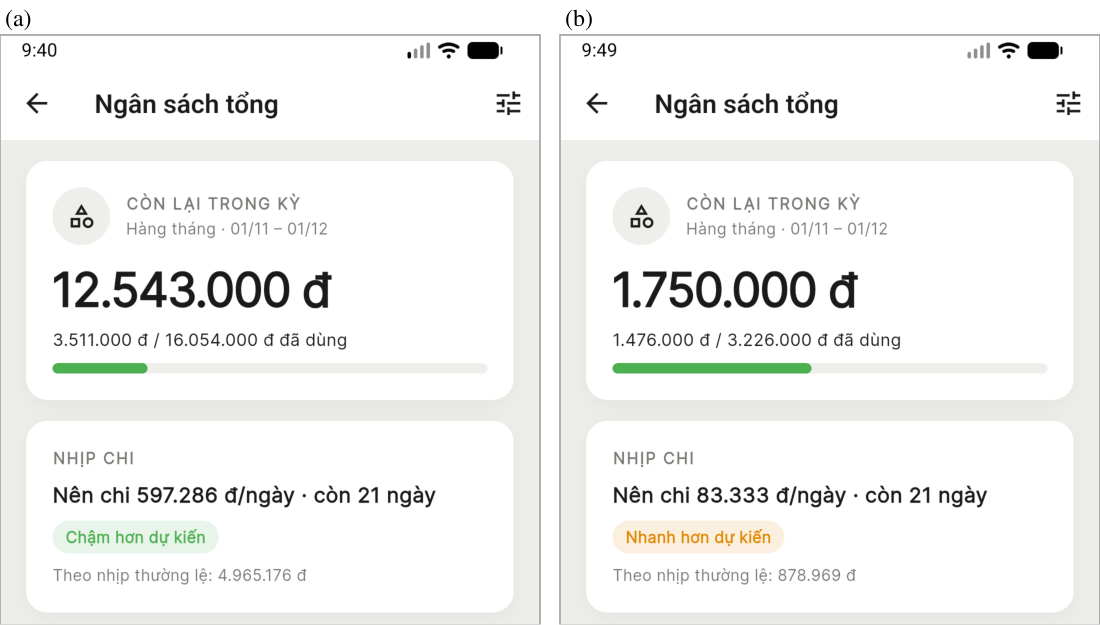
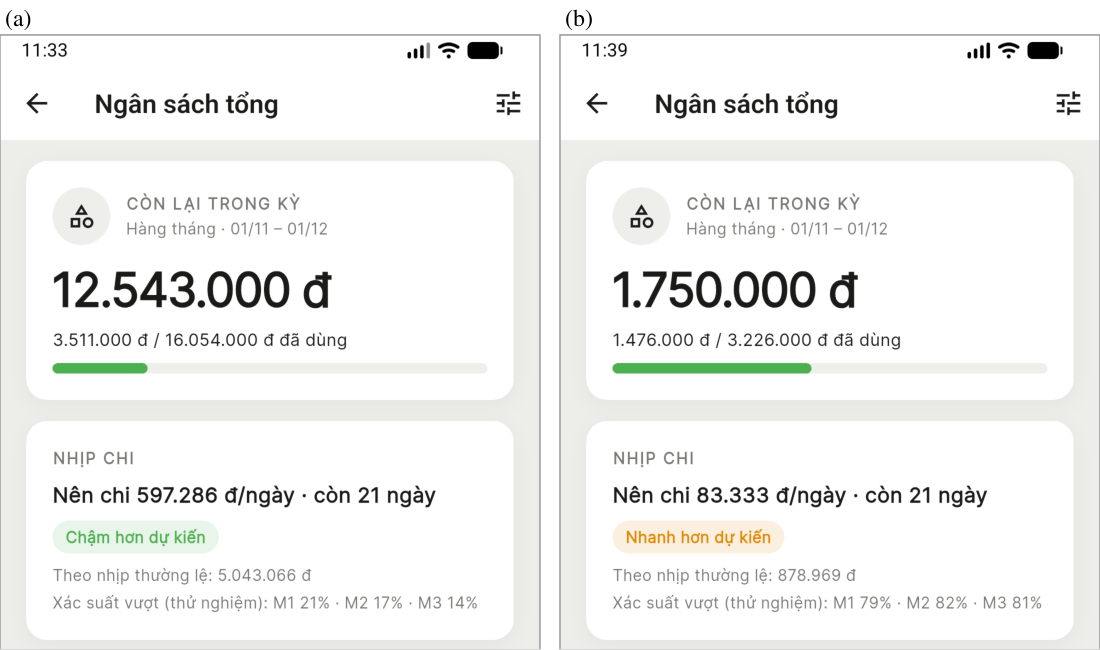
research: bài EN — thêm bản thử M2/M3 trong app (nháp, chưa dựng docx, chưa sửa VI)

diff --git a/research/du-bao-vuot-ngan-sach/paper/content_en.js b/research/du-bao-vuot-ngan-sach/paper/content_en.js
@@ -2,7 +2,8 @@
 // Rewritten 2026-11-10 after the supervisor's review: one data set (IBM TabFormer converted to a Vietnamese setting),
 // a test on the real FlowMoney app, a 5-point Likert check by two raters, fewer formulas.
 // Numbers come from ../experiment/results/{tabformer_vn,tabformer_vn_profile,bootstrap_vn,m1_compare_tabformer_vn}.json
-// and ../app_test/README.md. Likert results are pending (marked [pending]).
+// and ../app_test/README.md; trial build with M2/M3 in the app: results/{app_m23,app_bulk,app_drift}.json.
+// Likert results are pending (marked [pending]).
 'use strict';
 
 exports.title = 'Median, Exponential Smoothing, and Quantile Regression Forecasts for Early Warning of Budget Overruns';
@@ -12,14 +13,14 @@ exports.emails = '[e-mail addresses to be added]';
 exports.header = 'STUDENT SCIENTIFIC RESEARCH COMMUNICATION, VOLUME II, 2026';
 
 exports.build = ({ add, body, H1, H2, EQ, bullet, FIG, TABLE, LABELED, REFLIST, r }) => {
-  add(LABELED('Abstract', r`A budget warning in a personal finance app helps only if it comes early and is rarely wrong. FlowMoney, the offline-first app built in our graduation project, already projects end-of-month spending with a median of the user's past months. We ask whether a probability of overrunning the budget gives better warnings, and we compare three forecasters: the app's median rule, an exponentially weighted moving average (EWMA) of daily spending, and a quantile regression trained on all users. The data are IBM's synthetic card transactions, converted to a Vietnamese setting: 109 merchant codes were mapped to FlowMoney's eight spending categories and amounts were scaled to four income tiers, with the conversion tables proposed by Claude and checked by the authors on a 5-point Likert form. Because every budget is set from the user's own past spending, the conversion leaves every forecast unchanged (largest difference 0.001). On 310,978 forecasts from 1,513 users, quantile regression and EWMA beat the median rule (Brier score 0.148 and 0.149 against 0.166). Allowing one false alarm in ten months, quantile regression catches 77% of overruns a median of 12 days ahead, against 68% and 9 days for the median rule. We then loaded five converted users into the real app through its own sync API; for all five, the pace figure on the Budget page matched our offline run of the app's code to the last dong.`));
+  add(LABELED('Abstract', r`A budget warning in a personal finance app helps only if it comes early and is rarely wrong. FlowMoney, the offline-first app built in our graduation project, already projects end-of-month spending with a median of the user's past months. We ask whether a probability of overrunning the budget gives better warnings, and we compare three forecasters: the app's median rule, an exponentially weighted moving average (EWMA) of daily spending, and a quantile regression trained on all users. The data are IBM's synthetic card transactions, converted to a Vietnamese setting: 109 merchant codes were mapped to FlowMoney's eight spending categories and amounts were scaled to four income tiers, with the conversion tables proposed by Claude and checked by the authors on a 5-point Likert form. Because every budget is set from the user's own past spending, the conversion leaves every forecast unchanged (largest difference 0.001). On 310,978 forecasts from 1,513 users, quantile regression and EWMA beat the median rule (Brier score 0.148 and 0.149 against 0.166). Allowing one false alarm in ten months, quantile regression catches 77% of overruns a median of 12 days ahead, against 68% and 9 days for the median rule. We then loaded five converted users into the real app through its own sync API, and the app's pace figure matched our offline run of its code to the last dong. A trial build that adds M2 and M3 to the app reproduced all 328,670 test forecasts to within $10^{-6}$.`));
   add(LABELED('Index Terms', 'Budget overrun, early warning, exponential smoothing, personal finance application, quantile regression, synthetic data.', 160));
 
   // I
   add(H1('Introduction'));
   add(body(r`Many people manage money in monthly mental accounts, such as the amount set aside for food this month [@thaler], and the budget screen of a personal finance app follows the same idea. A reminder sent at the right time can change financial behaviour [@karlan], so when a budget warning appears matters as much as whether it appears.`, { dropCap: true }));
   add(body(r`FlowMoney is the personal finance app our team builds as its graduation project (KLTN). It is offline-first: transactions are written to SQLite on the phone and synced with a Node.js server in the background. On the Budget page the app compares spending so far with a *spending rhythm* learned from the three to six most recent closed months: for the share of the month that has passed, it takes the median share of the budget that was usually spent by then and labels the current pace slow, on track, or fast. It also projects end-of-month spending as the amount spent so far plus the median amount usually spent in the rest of the month. The rule is cheap and one unusual month barely moves it, but it gives no probability, so the app cannot say how likely an overrun is or choose how early to warn.`));
-  add(body(r`This paper turns the question "will this month go over budget?" into a probability and compares three ways to estimate it on data that can be loaded into the app. The contributions are: (i) an evaluation of the app's median rule against an EWMA and a quantile regression on 1,513 synthetic users, for both probability quality and early warning; (ii) an explicit data design that converts IBM's synthetic card transactions to FlowMoney's categories and Vietnamese spending levels, declares the origin of every data element, and has the AI-proposed parts checked by the authors on a Likert scale; and (iii) a test on the real system, in which converted users are loaded into FlowMoney through its own sync API and the figures on the Budget page are checked against an offline run of the app's code. Section II reviews related work, Section III describes the method and data, Section IV reports the results, Section V discusses them, and Section VI concludes.`));
+  add(body(r`This paper turns the question "will this month go over budget?" into a probability and compares three ways to estimate it on data that can be loaded into the app. The contributions are: (i) an evaluation of the app's median rule against an EWMA and a quantile regression on 1,513 synthetic users, for both probability quality and early warning; (ii) an explicit data design that converts IBM's synthetic card transactions to FlowMoney's categories and Vietnamese spending levels, declares the origin of every data element, and has the AI-proposed parts checked by the authors on a Likert scale; and (iii) a test on the real system, in which converted users are loaded into FlowMoney through its own sync API and the figures on the Budget page are checked against an offline run of the app's code, together with a trial build of the app that computes all three probabilities on the phone. Section II reviews related work, Section III describes the method and data, Section IV reports the results, Section V discusses them, and Section VI concludes.`));
 
   // II
   add(H1('Related Work'));
@@ -64,7 +65,7 @@ exports.build = ({ add, body, H1, H2, EQ, bullet, FIG, TABLE, LABELED, REFLIST, 
     [
       ['Probability quality (RQ1)', '310,978 forecasts, 1,513 users', 'Brier score (3), expected calibration error (ECE), area under the ROC curve'],
       ['Early warning (RQ2)', 'Same', 'Recall at a false-alarm rate of at most 10%; median days of warning before the overrun'],
-      ['Real system (RQ3)', '5 users in the app; 20,000 sampled cases', 'Exact match of the app’s figures with the offline run of its code'],
+      ['Real system (RQ3)', '5 users in the app; 20,000 sampled cases; trial build: 328,670 forecasts and 300 users read through the app database', 'Exact match of the app’s figures with the offline run of its code; largest difference for M1 to M3 in the trial build'],
       ['Human check (RQ4)', '80 mapping items, 4 tiers, 20 user-months, 30 warnings', 'Mean 5-point Likert score [@likert]; agreement of the two raters [@cohen]'],
     ], null, 'LLL'));
   add(body(r`The Brier score is the mean squared gap between the forecast probability $p_{i}$ and the outcome $o_{i}$ (1 if the month ended over budget):`));
@@ -73,6 +74,7 @@ exports.build = ({ add, body, H1, H2, EQ, bullet, FIG, TABLE, LABELED, REFLIST, 
   add(H2('Experimental Protocol'));
   add(body(r`*Offline experiment.* Months are processed in time order [@tashman]: for each month a forecaster sees only earlier data plus the current month up to the checkpoint, and M3 is refitted every six months on 4,000 earlier rows. Forecasts are made on days 5, 10, 15, 20, and 25. The first 20% of months (before June 2016) choose $\lambda$ (0.01 was selected from eight values) and are not reported. Differences between forecasters are averaged per user and given 95% intervals from 2,000 bootstrap resamples of users [@efron]. The code runs in Python with scikit-learn, and the app's rule also runs in Dart, unchanged, outside the app.`));
   add(body(r`*Real-system test.* We built the current FlowMoney client (no code changes) for an Android 16 emulator and ran the project's backend locally on its PostgreSQL database. Five converted users were chosen by seed among those whose November of 2016 to 2019 lies in the evaluation period, with six months of history and spending still under budget on day 10: two whose month ended over budget and three whose month did not. November was used because the test ran in November, so a whole year could be shifted with matching month lengths. For each, the source November and the seven months before it were moved to 2026 (month lengths match), up to day 10, since the test ran on 10 November 2026. A test account was registered through the app's API, logged in on the emulator so that the app created its own wallets and category copies, and the transactions and a monthly total budget equal to the experiment's $B$ were pushed through the app's sync API. We then opened Budget, Total budget in the app, captured the screen, and ran the app's Dart rule offline on the same transactions at the clock time of the capture.`));
+  add(body(r`*Trial build with all three forecasters.* On a separate branch that is not released, we added the three probabilities to the client. A Dart function repeats the offline computation day by day, a data-access class reads the user's spending from the app's SQLite database, and one line under the pace label on the Total budget page shows M1, M2, and M3 as percentages. An app cannot refit M3 every six months as the offline run does, so the trial build ships one set of coefficients, fitted once on 4,000 rows from the tuning months (before June 2016). We checked the build at three levels. First, the Dart function ran, unchanged, on all 328,670 test forecasts at $\kappa=1.0$. Second, 300 converted users, chosen by seed, with 985,834 transactions and their real times of day, were written into an in-memory copy of the app's database and read through the app's data-access class, as the budget page reads them. Each of these users also had rows that must not count as spending: a monthly salary, an opening balance three months before the first purchase, a balance adjustment, a transfer, and a deleted expense. Third, the five users above were opened again on the emulator. Every check is compared with the offline Python run using the same fixed M3 coefficients.`));
   add(body(r`*Likert check.* Two authors rate independently on separate forms, without seeing each other's scores. Form A covers the 80 mapping items (77 single codes and three code ranges), the four tiers, and 20 converted user-months (five per tier, seeded), each with the statement that it is reasonable for a Vietnamese user. Form B shows 30 warnings (days 10, 15, and 20; half of them from months that ended over budget) with the budget, spending so far, and the three previous months; the three forecasters appear as A, B, and C in a shuffled order, and the outcome is hidden. Items scored 1 or 2 in Form A are revised before the tables are locked.`));
 
   // IV
@@ -91,19 +93,20 @@ exports.build = ({ add, body, H1, H2, EQ, bullet, FIG, TABLE, LABELED, REFLIST, 
   add(FIG('fig2_vn_reliability.png', 300, 291, r`Calibration on day 15 ($\kappa=1.0$): observed overrun rate against forecast probability in ten equal-size groups. The dashed line is perfect calibration.`));
   add(FIG('fig3_vn_warning.png', 300, 291, r`Warning trade-off ($\kappa=1.0$): (a) share of overruns caught and (b) median days of warning, against the false-alarm rate as the threshold $p^{*}$ varies.`));
   add(H2('Test on the Real System'));
-  add(body(r`Table IV and Fig. 4 give the in-app test. In all five accounts the app learned from six closed months, the same as the experiment, and the pace figure on the Total budget page ("Theo nhịp thường lệ", the amount usually spent by this point) matched the offline run of the app's Dart code to the last dong. Spending so far and the budget also matched the experiment. The five cases also show what a probability would add to the app's label. For users 1 and 2 the app labelled the pace slow and projected spending below the budget, yet both months ended over budget; all three forecasters gave 0.15 to 0.33 on day 10, so this is a miss that none of them avoids so early. For user 4 the app labelled the pace fast and projected 4.28 million against a budget of 3.23 million, and all three forecasters gave about 0.8, but the month ended at 2.86 million: a false alarm. User 3 shows where a probability is more informative than a projection: the app's projection was 22.87 million against a budget of 22.96 million, a near tie that a single number cannot express, and M1 gave 0.50 while M2 and M3 gave 0.14 and 0.15; the month ended at 18.40 million.`));
+  add(body(r`Table IV and Fig. 4 give the in-app test. In all five accounts the app learned from six closed months, the same as the experiment, and the pace figure on the Total budget page ("Theo nhịp thường lệ", the amount usually spent by this point) matched the offline run of the app's Dart code to the last dong. Spending so far and the budget also matched the experiment. The five cases also show what a probability would add to the app's label. For users 1 and 2 the app labelled the pace slow and projected spending below the budget, yet both months ended over budget; all three forecasters gave 0.14 to 0.31 on day 10, so this is a miss that none of them avoids so early. For user 4 the app labelled the pace fast and projected 4.28 million against a budget of 3.23 million, and all three forecasters gave about 0.8, but the month ended at 2.86 million: a false alarm. User 3 shows where a probability is more informative than a projection: the app's projection was 22.87 million against a budget of 22.96 million, a near tie that a single number cannot express, and M1 gave 0.50 while M2 and M3 gave 0.12 and 0.15; the month ended at 18.40 million.`));
   add(TABLE('Five Converted Users Loaded Into FlowMoney (Day 10)', [300, 760, 640, 640, 900, 880, 980],
-    ['#', 'Budget', 'Spent', 'App label', 'Pace figure, app = code', 'Month end', 'p1/p2/p3'],
+    ['#', 'Budget', 'Spent', 'App label', 'Pace figure, app = code', 'Month end', 'p1/p2/p3 in app'],
     [
-      ['1', '16,054,000', '3,511,000', 'slow', '4,965,176', '16,986,000 (over)', '.21/.18/.15'],
-      ['2', '6,404,000', '1,767,000', 'slow', '2,198,954', '8,609,000 (over)', '.21/.33/.28'],
-      ['3', '22,961,000', '5,680,000', 'on track', '5,717,261', '18,400,000', '.50/.14/.15'],
-      ['4', '3,226,000', '1,476,000', 'fast', '878,969', '2,859,000', '.79/.84/.84'],
-      ['5', '4,128,000', '798,000', 'slow', '1,266,831', '3,043,000', '.21/.22/.15'],
+      ['1', '16,054,000', '3,511,000', 'slow', '4,965,176', '16,986,000 (over)', '.21/.17/.14'],
+      ['2', '6,404,000', '1,767,000', 'slow', '2,198,954', '8,609,000 (over)', '.21/.31/.29'],
+      ['3', '22,961,000', '5,680,000', 'on track', '5,717,261', '18,400,000', '.50/.12/.15'],
+      ['4', '3,226,000', '1,476,000', 'fast', '878,969', '2,859,000', '.79/.82/.81'],
+      ['5', '4,128,000', '798,000', 'slow', '1,266,831', '3,043,000', '.21/.20/.15'],
     ],
-    r`Amounts in VND. Tiers: 1 established, 2 early-career, 3 high income, 4 and 5 students. The app shows the label and the pace figure; the probabilities come from the experiment.`, 'LLLLLLL'));
-  add(FIG('fig4_app.png', 300, 170, r`FlowMoney's Total budget page in the in-app test (Vietnamese interface): (a) user 1, labelled slow, whose month later ended over budget; (b) user 4, labelled fast, whose month did not.`));
+    r`Amounts in VND. Tiers: 1 established, 2 early-career, 3 high income, 4 and 5 students. The released app shows the label and the pace figure; the probabilities are those shown by the trial build (Section III-E).`, 'LLLLLLL'));
+  add(FIG('fig4_app.png', 300, 177, r`FlowMoney's Total budget page in the trial build (Vietnamese interface), with the M1, M2, and M3 probabilities under the pace figure: (a) user 1, labelled slow, whose month later ended over budget; (b) user 4, labelled fast, whose month did not. These screens were taken later on 10 November than those behind Table IV, and the pace figure follows the time of day, so user 1's differs from the table.`));
   add(body(r`The in-app test covers five users. A larger check of the same rule was run offline on 20,000 forecasts drawn at random from the converted data: with each transaction placed at the end of its day, our Python M1 and the app's Dart function agree in every case. With the real times of day in the data, 2.1% of the overrun decisions differ, because the app places a transaction by the moment it was entered.`));
+  add(body(r`The trial build gives the same probabilities as the offline run. Over the 328,670 test forecasts, M1 matches exactly, and M2 and M3 differ by at most $4.2\times10^{-8}$, the error of the normal-distribution approximation in the Dart code. Scored on the app's own numbers, the Brier scores are 0.166, 0.149, and 0.148 for M1, M2, and M3, as in Table III; fitting M3 once instead of every six months costs 0.0002 in Brier score and raises the ECE from 0.006 to 0.009. The 300 users read through the app's database also matched to within $10^{-6}$. That check found one defect in our first version: the data-access class started the history at the user's first transaction of any kind, so an opening balance entered months before the first purchase made M2 start from a run of zero days, which changed p2 for 173 of the 300 users by up to 0.016. Starting the history at the first expense fixed it. On the emulator the five users matched to the sixth decimal that the app prints, and Fig. 4 shows the new line on the Total budget page.`));
   add(H2('Human Check of the Data and Warnings'));
   add(body(r`[pending] The two raters are filling in Forms A and B. Table V will give the mean score and the agreement for each part, and the mapping items rated 1 or 2 by either rater will be listed with the change made before the tables were locked. For Form B, the mean score of each forecaster's warnings will be compared with the outcome that was hidden from the raters.`));
   add(TABLE('Likert Scores (1 to 5) of the Two Raters', [1900, 800, 800, 800, 740],
@@ -118,15 +121,15 @@ exports.build = ({ add, body, H1, H2, EQ, bullet, FIG, TABLE, LABELED, REFLIST, 
 
   // V
   add(H1('Discussion'));
-  add(body(r`*What the data support.* On card-like spending, where purchases fall on most days, a probability from M3 or M2 is more accurate and better calibrated than the app's median rule, and it warns about three days earlier while catching more overruns at the same false-alarm rate. M2 costs almost nothing on a phone and is nearly as good as M3. The app's rule, as implemented, gives the same numbers in the real app as in our offline evaluation, so the comparison is about the rule the users actually see.`));
+  add(body(r`*What the data support.* On card-like spending, where purchases fall on most days, a probability from M3 or M2 is more accurate and better calibrated than the app's median rule, and it warns about three days earlier while catching more overruns at the same false-alarm rate. M2 costs almost nothing on a phone and is nearly as good as M3. The app's rule, as implemented, gives the same numbers in the real app as in our offline evaluation, so the comparison is about the rule the users actually see. The trial build shows that M2 and M3 also run inside the app on the phone's own data and give the offline numbers.`));
   add(body(r`*What holds only under conditions.* The ranking comes from IBM's generator, whose users spend on most days and repeat about a sixth of their spending as the same payment each month. A user whose month is a few large fixed payments, such as rent and tuition, is a different case: the median of past months follows such payments directly, and the app's rule may then be as good as a pooled model. The ranking therefore depends on how regular and how frequent a user's spending is.`));
   add(body(r`*What the data do not show.* The data do not show how real FlowMoney users spend, how they react to a warning, or whether a warning prevents the overrun it predicts. Five accounts show that the pipeline works in the real system; they are too few to say how often the app is right.`));
-  add(body(r`*Implications for FlowMoney.* The app can keep its median rule as the default, since it needs no training, and add a probability next to the pace label. If the probability is shown as a percentage, it should come from M2 or M3, or M1's seven levels should first be mapped to observed overrun rates. A notification should be sent once per month the first time $p_{t}$ passes the chosen threshold. M3's coefficients can be trained offline and shipped with the app, so no transaction has to leave the phone.`));
-  add(body(r`*Limitations.* The spending patterns are those of IBM's simulated US card holders: card payments, US merchant types, and no Tet holiday. The conversion changes amounts and labels; the habits stay those of the simulated users. The conversion tables were proposed by an AI model and are checked by two raters who are also the authors. The budgets are constructed, not chosen by users. The in-app test used an emulator and five users. Each run used one random seed.`));
+  add(body(r`*Implications for FlowMoney.* The app can keep its median rule as the default, since it needs no training, and add a probability next to the pace label. If the probability is shown as a percentage, it should come from M2 or M3, or M1's seven levels should first be mapped to observed overrun rates. A notification should be sent once per month the first time $p_{t}$ passes the chosen threshold. M3's coefficients can be trained offline and shipped with the app, as in the trial build, so no transaction has to leave the phone.`));
+  add(body(r`*Limitations.* The spending patterns are those of IBM's simulated US card holders: card payments, US merchant types, and no Tet holiday. The conversion changes amounts and labels; the habits stay those of the simulated users. The conversion tables were proposed by an AI model and are checked by two raters who are also the authors. The budgets are constructed, not chosen by users. The in-app test used an emulator and five users, and M2 and M3 ran in an unreleased trial build with one fixed set of M3 coefficients. Each run used one random seed.`));
 
   // VI
   add(H1('Conclusion'));
-  add(body(r`We compared three forecasts of the probability that a month ends over budget, using IBM's synthetic card data converted to FlowMoney's categories and Vietnamese spending levels with an AI-proposed, human-checked conversion. Quantile regression and EWMA were more accurate and better calibrated than the app's median rule and warned of 77% to 78% of overruns about 12 days ahead at a 10% false-alarm rate. Loading converted users into the real app reproduced the app's figures exactly. Next steps are to finish the Likert check and lock the conversion tables, generate a population with Vietnamese habits such as monthly salaries and Tet spending, and add the probability and a once-a-month notification to the Budget page.`));
+  add(body(r`We compared three forecasts of the probability that a month ends over budget, using IBM's synthetic card data converted to FlowMoney's categories and Vietnamese spending levels with an AI-proposed, human-checked conversion. Quantile regression and EWMA were more accurate and better calibrated than the app's median rule and warned of 77% to 78% of overruns about 12 days ahead at a 10% false-alarm rate. Loading converted users into the real app reproduced the app's figures exactly, and a trial build that adds M2 and M3 gave the offline probabilities on 328,670 forecasts, on 300 users read through the app's database, and on five users on an emulator. Next steps are to finish the Likert check and lock the conversion tables, generate a population with Vietnamese habits such as monthly salaries and Tet spending, and move the probability line from the trial build into the released app with a once-a-month notification.`));
 
   add(H1('Acknowledgment', false));
   add(body(r`Claude (Anthropic) [@claude] proposed the merchant-code mapping and the income tiers used to convert the data, and helped draft the text and the experiment scripts. The authors checked the conversion on the Likert forms, checked every number against the experiment records, and take full responsibility for the content.`, { noIndent: true }));

diff --git a/research/du-bao-vuot-ngan-sach/paper/make_app_figure.py b/research/du-bao-vuot-ngan-sach/paper/make_app_figure.py
@@ -1,4 +1,4 @@
-"""Fig. 4: two screenshots of FlowMoney's budget-detail page from the real-app test (../app_test/uN_detail.png),
+"""Fig. 4: two screenshots of FlowMoney's budget-detail page from the real-app test (../app_test/uN_detail_m23.png, trial build with M1/M2/M3),
 cropped to the top (remaining budget + NHỊP CHI block) and placed side by side with pymupdf (no PIL here).
 
 Run:  python make_app_figure.py   ->  fig4_app.png (the screenshots are Vietnamese UI, so the _vi copy is identical)
@@ -8,8 +8,8 @@ import pathlib
 import pymupdf
 
 HERE = pathlib.Path(__file__).resolve().parent
-SHOTS = [HERE.parent / "app_test" / "u1_detail.png", HERE.parent / "app_test" / "u4_detail.png"]
-CROP_H = 1180          # px of the 1080x2400 screenshot kept from the top (header, remaining budget, NHỊP CHI)
+SHOTS = [HERE.parent / "app_test" / "u1_detail_m23.png", HERE.parent / "app_test" / "u4_detail_m23.png"]
+CROP_H = 1230          # px kept from the top (header, remaining budget, NHỊP CHI incl. the trial probability line)
 GAP = 40               # px between the two shots
 LABEL_H = 70           # px band above each shot for "(a)" / "(b)"
 
